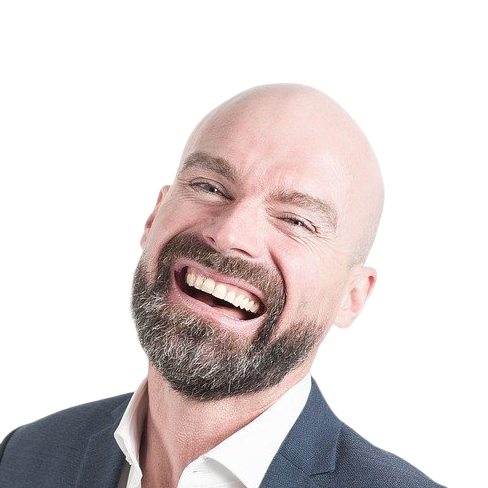
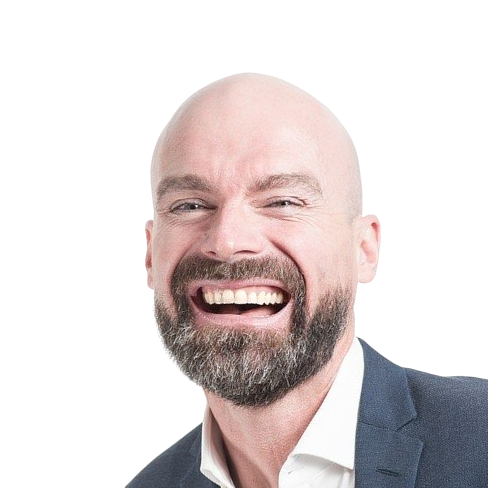
WIP

diff --git a/ProfileImageService/Components/PhotoProcessor/PhotoProcessorService.cs b/ProfileImageService/Components/PhotoProcessor/PhotoProcessorService.cs
@@ -1,4 +1,4 @@
-using System;
+using System;
 using System.Linq;
 using System.Threading.Tasks;
 using System.Collections.Generic;
@@ -17,17 +17,19 @@ namespace ProfileImageService.Components.PhotoProcessor
 {
     public class PhotoProcessorService
     {
-        private const string BackgroundColor = "2B3444";
         private const double InflationFactor = .8;
         private readonly FaceApiClient _faceApiClient;
         private readonly RemoveBgClient _backgroundRemovalApiClient;
+        private readonly IDesign _design;
+        private readonly IPhotoValidator? _photoValidator;
 
-        public Func<Face, bool>? Validate { get; set; } // TODO refactor this be be a service impl.
-
-        public PhotoProcessorService(FaceApiClient faceApiClient, RemoveBgClient removeBgClient)
+        public PhotoProcessorService(FaceApiClient faceApiClient, RemoveBgClient removeBgClient,
+            IDesign design, IPhotoValidator? photoValidator = null)
         {
             _faceApiClient = faceApiClient;
             _backgroundRemovalApiClient = removeBgClient;
+            _design = design;
+            _photoValidator = photoValidator;
         }
 
         public async Task<IEnumerable<ProcessedFace>> ProcessPhoto(ReadOnlyMemory<byte> sourcePhoto)
@@ -38,7 +40,7 @@ namespace ProfileImageService.Components.PhotoProcessor
 
             for (var i = 0; i < faces.Length; i++)
             {
-                if (Validate?.Invoke(faces[i]) ?? true)
+                if (_photoValidator?.Validate(faces[i]) ?? true)
                 {
                     faceProcessingTasks[i] = ProcessFace(sourcePhoto, faces[i]);
                 }
@@ -53,6 +55,7 @@ namespace ProfileImageService.Components.PhotoProcessor
 
             using var sourcePhoto = Image.Load(sourcePhotoMemory.Span);
 
+            // TODO add toggle from settings
             {
                 var debugImage = DrawDebugImage(sourcePhoto, face, InflationFactor);
                 processedFace.DebugImage = debugImage.SaveAsJpeg();
@@ -64,7 +67,7 @@ namespace ProfileImageService.Components.PhotoProcessor
             processedFace.TransparentPhoto = await _backgroundRemovalApiClient.RemoveBackground(processedFace.CroppedPhoto);
             var transparentPhoto = Image.Load(processedFace.TransparentPhoto.Span, new PngDecoder());
 
-            var profileImage = CreateProfileImage(transparentPhoto);
+            var profileImage = _design.ApplyDesign(transparentPhoto);
             processedFace.ProfileImage = profileImage.SaveAsPng();
 
             return processedFace;
@@ -82,7 +85,7 @@ namespace ProfileImageService.Components.PhotoProcessor
                 ctx.Rotate(-face.FaceAttributes?.HeadPose?.Roll ?? 0, centerPoint);
             });
 
-            // Due to the inflation and rotation it is possile we're going to crop outside of the photo
+            // Due to the inflation and rotation it is possible we're going to crop outside of the photo
             // and since this isn't allowed we need to first check if we're going to do so
             if (new Rectangle(Point.Empty, sourcePhoto.Size()).Contains(cropRectangle))
             {
@@ -122,21 +125,6 @@ namespace ProfileImageService.Components.PhotoProcessor
 
                 ctx.BackgroundColor(Rgba32.White);
             });
-        }
-
-        private static Image<Rgba32> CreateProfileImage(Image photoOfFaceWithoutBackground)
-        {
-            var profileImage = new Image<Rgba32>(512, 512);
-
-            profileImage.Mutate(ctx =>
-            {
-                ctx.BackgroundColor(Rgba32.FromHex(BackgroundColor));
-                ctx.ApplyFrame();
-                ctx.ApplyPhoto(photoOfFaceWithoutBackground);
-                ctx.ApplyRoundedCorners(256);
-            });
-
-            return profileImage;
         }
     }
 }

diff --git a/ProfileImageService.Console/Program.cs b/ProfileImageService.Console/Program.cs
@@ -1,4 +1,4 @@
-using System;
+using System;
 using System.IO;
 using System.Net.Http;
 using System.Threading.Tasks;
@@ -6,6 +6,7 @@ using Microsoft.Extensions.Configuration;
 using ProfileImageService.Components.FaceApi;
 using ProfileImageService.Components.PhotoProcessor;
 using ProfileImageService.Components.RemoveBg;
+using ProfileImageService.Designs;
 using ProfileImageService.Settings;
 
 namespace ProfileImageService.ConsoleApp
@@ -22,18 +23,24 @@ namespace ProfileImageService.ConsoleApp
             var settings = new ProfileImageServiceSettings();
             configuration.Bind(settings);
 
+            var path = "assets/adult-1868750_1280.jpg";
+
             var removeBgClient = new RemoveBgClient(new HttpClient(), settings);
             var faceApiClient = new FaceApiClient(new HttpClient(), settings);
-            var photoProcessorService = new PhotoProcessorService(faceApiClient, removeBgClient)
-            {
-                Validate = face =>
-                {
-                    Console.WriteLine($"Validating face '{face.FaceId}'...");
-                    return true;
-                }
-            };
+            //var design = new IndivirtualDesign();
+            var design = new SentiaDesign();
 
-            var sourcePhoto = new ReadOnlyMemory<byte>(File.ReadAllBytes("assets/adult-1868750_1280.jpg"));
+            var photoProcessorService = new PhotoProcessorService(faceApiClient, removeBgClient, design);
+
+            //{
+            //    Validate = face =>
+            //    {
+            //        Console.WriteLine($"Validating face '{face.FaceId}'...");
+            //        return true;
+            //    }
+            //}
+
+            var sourcePhoto = new ReadOnlyMemory<byte>(File.ReadAllBytes(path));
             var processedFaces = await photoProcessorService.ProcessPhoto(sourcePhoto);
 
             foreach (var processedFace in processedFaces)

diff --git a/ProfileImageService/Designs/LiveCodersDesign.cs b/ProfileImageService/Designs/LiveCodersDesign.cs
@@ -1,0 +1,31 @@
+using System.Security.Cryptography;
+using ProfileImageService.Components.PhotoProcessor;
+using ProfileImageService.Extensions;
+using SixLabors.ImageSharp;
+using SixLabors.ImageSharp.PixelFormats;
+using SixLabors.ImageSharp.Processing;
+
+namespace ProfileImageService.Designs
+{
+    public class LiveCodersDesign : IDesign
+    {
+        public Image<Rgba32> ApplyDesign(Image image)
+        {
+            var profileImage = new Image<Rgba32>(512, 512);
+
+            profileImage.Mutate(ctx =>
+            {
+                image.Mutate(ctx =>
+                {
+                    ctx.Vignette(new GraphicsOptions(true, PixelColorBlendingMode.Darken, 0.5f), Color.Black);
+                });
+
+                ctx.DrawFrame($"assets/livecoders/background-{RandomNumberGenerator.GetInt32(4)}.jpg");
+                ctx.Vignette(new GraphicsOptions(true, PixelColorBlendingMode.Darken, 0.5f), Color.Purple);
+                ctx.DrawPhoto(image);
+            });
+
+            return profileImage;
+        }
+    }
+}

diff --git a/ProfileImageService.Tests/PhotoProcessorServiceTests.cs b/ProfileImageService.Tests/PhotoProcessorServiceTests.cs
@@ -1,4 +1,4 @@
-using System;
+using System;
 using System.IO;
 using System.Text;
 using System.Net;
@@ -12,6 +12,7 @@ using FluentAssertions;
 using ProfileImageService.Components.RemoveBg;
 using ProfileImageService.Components.FaceApi;
 using ProfileImageService.Components.PhotoProcessor;
+using ProfileImageService.Designs;
 
 namespace ProfileImageService.Tests
 {
@@ -42,7 +43,8 @@ namespace ProfileImageService.Tests
 
             var removeBgClient = new RemoveBgClient(removeBgHttpClient, _testFixture.Settings);
             var faceApiClient = new FaceApiClient(faceApiHttpClient, _testFixture.Settings);
-            var photoProcessorService = new PhotoProcessorService(faceApiClient, removeBgClient);
+            var design = new LiveCodersDesign(); //SentiaDesign();
+            var photoProcessorService = new PhotoProcessorService(faceApiClient, removeBgClient, design);
             
             var sourcePhoto = new ReadOnlyMemory<byte>(File.ReadAllBytes("assets/adult-1868750_1280.jpg"));
 

diff --git a/ProfileImageService/Components/AzureStorage/AzureBlobStorageService.cs b/ProfileImageService/Components/AzureStorage/AzureBlobStorageService.cs
@@ -1,4 +1,4 @@
-using System;
+using System;
 using System.Threading;
 using System.Threading.Tasks;
 using Microsoft.Azure.Storage;
@@ -9,14 +9,12 @@ namespace ProfileImageService.Components.AzureStorage
 {
     public class AzureBlobStorageService
     {
-        private readonly CloudStorageAccount _storageAccount;
         private readonly CloudBlobContainer _blobContainer;
 
         public AzureBlobStorageService(CloudStorageAccount storageAccount)
         {
-            _storageAccount = storageAccount;
-            var cloudBlobClient = _storageAccount.CreateCloudBlobClient();
-            _blobContainer = cloudBlobClient.GetContainerReference("profilepictures");
+            var cloudBlobClient = storageAccount.CreateCloudBlobClient();
+            _blobContainer = cloudBlobClient.GetContainerReference("profilepictures"); // TODO magic string
         }
 
         public async Task<string> SaveProcessedFaceAsync(ProcessedFace processedFace, CancellationToken cancellationToken = default)

diff --git a/ProfileImageService/Extensions/ImageProcessingContextExtensions.cs b/ProfileImageService/Extensions/ImageProcessingContextExtensions.cs
@@ -9,18 +9,19 @@ namespace ProfileImageService.Extensions
 {
     public static class ImageProcessingContextExtensions
     {
-        public static void ApplyPhoto(this IImageProcessingContext ctx, Image image)
+        public static void DrawPhoto(this IImageProcessingContext ctx, Image image)
         {
             using var overlayImage = image;
+
             var result = overlayImage.Clone(
                 ctx2 => ctx2.Resize(new ResizeOptions { Mode = ResizeMode.Crop, Size = new Size(512) }));
 
             ctx.DrawImage(result, PixelColorBlendingMode.Normal, 1);
         }
 
-        public static void ApplyFrame(this IImageProcessingContext ctx)
+        public static void DrawFrame(this IImageProcessingContext ctx, string framePath)
         {
-            using var overlayImage = Image.Load("assets/frame.png");
+            using var overlayImage = Image.Load(framePath);
             ctx.DrawImage(overlayImage, PixelColorBlendingMode.Normal, 1);
         }
 

diff --git a/ProfileImageService/Designs/IndivirtualDesign.cs b/ProfileImageService/Designs/IndivirtualDesign.cs
@@ -1,0 +1,29 @@
+using ProfileImageService.Components.PhotoProcessor;
+using ProfileImageService.Extensions;
+using SixLabors.ImageSharp;
+using SixLabors.ImageSharp.PixelFormats;
+using SixLabors.ImageSharp.Processing;
+
+namespace ProfileImageService.Designs
+{
+    public class IndivirtualDesign : IDesign
+    {
+        private const string BackgroundColor = "2B3444";
+
+        public Image<Rgba32> ApplyDesign(Image image)
+        {
+            var profileImage = new Image<Rgba32>(512, 512);
+
+            profileImage.Mutate(ctx =>
+            {
+                ctx.BackgroundColor(Rgba32.FromHex(BackgroundColor));
+                ctx.DrawFrame("assets/indivirtual/frame-background.png");
+                ctx.DrawPhoto(image);
+                ctx.DrawFrame("assets/indivirtual/frame-foreground.png");
+                ctx.ApplyRoundedCorners(256);
+            });
+
+            return profileImage;
+        }
+    }
+}

diff --git a/ProfileImageService.Bot/Startup.cs b/ProfileImageService.Bot/Startup.cs
@@ -12,6 +12,7 @@ using ProfileImageService.Components.AzureStorage;
 using ProfileImageService.Components.FaceApi;
 using ProfileImageService.Components.PhotoProcessor;
 using ProfileImageService.Components.RemoveBg;
+using ProfileImageService.Designs;
 using ProfileImageService.Settings;
 
 namespace ProfileImageService.Bot
@@ -44,6 +45,9 @@ namespace ProfileImageService.Bot
 
             services.AddSingleton<AzureBlobStorageService>();
             services.AddSingleton(CloudStorageAccount.Parse(_configuration["BlobStorageConnectionString"]));
+
+            //services.AddSingleton<IFrameDesign, IndivirtualDesign>();
+            services.AddSingleton<IDesign, SentiaDesign>();
         }
 
         // This method gets called by the runtime. Use this method to configure the HTTP request pipeline.

diff --git a/ProfileImageService/Designs/SentiaDesign.cs b/ProfileImageService/Designs/SentiaDesign.cs
@@ -1,0 +1,25 @@
+using ProfileImageService.Components.PhotoProcessor;
+using ProfileImageService.Extensions;
+using SixLabors.ImageSharp;
+using SixLabors.ImageSharp.PixelFormats;
+using SixLabors.ImageSharp.Processing;
+
+namespace ProfileImageService.Designs
+{
+    public class SentiaDesign : IDesign
+    {
+        public Image<Rgba32> ApplyDesign(Image image)
+        {
+            var profileImage = new Image<Rgba32>(512, 512);
+
+            profileImage.Mutate(ctx =>
+            {
+                ctx.DrawFrame("assets/sentia/frame-background.png");
+                ctx.DrawPhoto(image);
+                //ctx.DrawFrame("assets/sentia/frame-foreground.png");
+            });
+
+            return profileImage;
+        }
+    }
+}

diff --git a/ProfileImageService/Components/PhotoProcessor/IDesign.cs b/ProfileImageService/Components/PhotoProcessor/IDesign.cs
@@ -1,0 +1,10 @@
+using SixLabors.ImageSharp;
+using SixLabors.ImageSharp.PixelFormats;
+
+namespace ProfileImageService.Components.PhotoProcessor
+{
+    public interface IDesign
+    {
+        Image<Rgba32> ApplyDesign(Image image);
+    }
+}

diff --git a/ProfileImageService/Components/PhotoProcessor/IPhotoValidator.cs b/ProfileImageService/Components/PhotoProcessor/IPhotoValidator.cs
@@ -1,0 +1,9 @@
+using ProfileImageService.Components.FaceApi.Models;
+
+namespace ProfileImageService.Components.PhotoProcessor
+{
+    public interface IPhotoValidator
+    {
+        bool Validate(Face face);
+    }
+}
